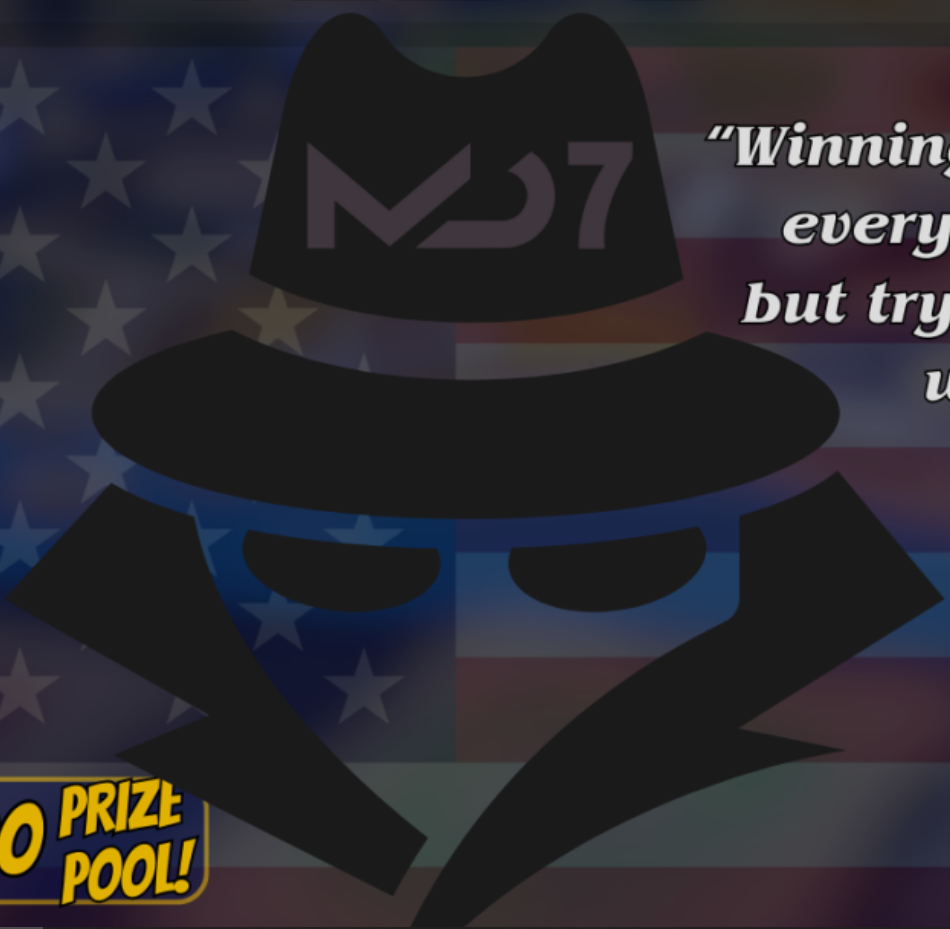
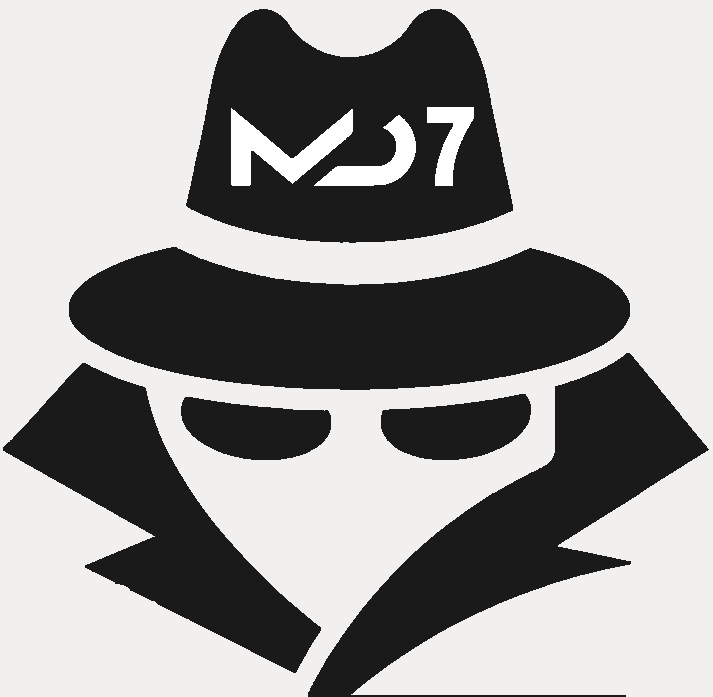
Updated portraits

diff --git a/src/Components/LeadingUser/LeadingUser.js b/src/Components/LeadingUser/LeadingUser.js
@@ -35,7 +35,7 @@ const LeadingUser = ({ data, currSnapshot }) => {
             data && <>
             <div>
                 <div style={{display: 'flex'}} className='goldBackground'>
-                    <img src={leadingUserInfo?.imageURL ? leadingUserInfo.imageURL : "/img/mysteryPortrait.jpg"} alt="User" style={{height: '83px', width: '83px', margin: '0 0 0 4px', alignSelf: 'center'}}/>
+                    <img src={leadingUserInfo?.imageURL ? leadingUserInfo.imageURL : "/img/mysteryPortrait.png"} alt="User" style={{height: '83px', width: '83px', margin: '0 0 0 4px', alignSelf: 'center'}}/>
                     <div style={{
                         fontSize: '1.5em', 
                         color: 'white', 
